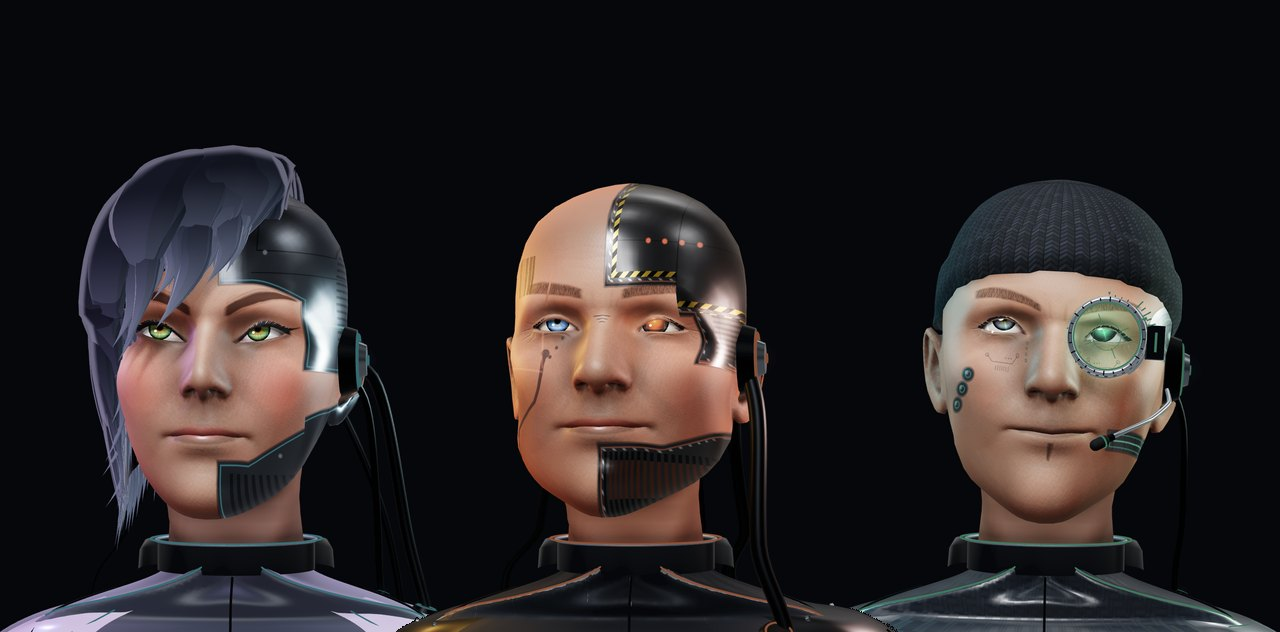
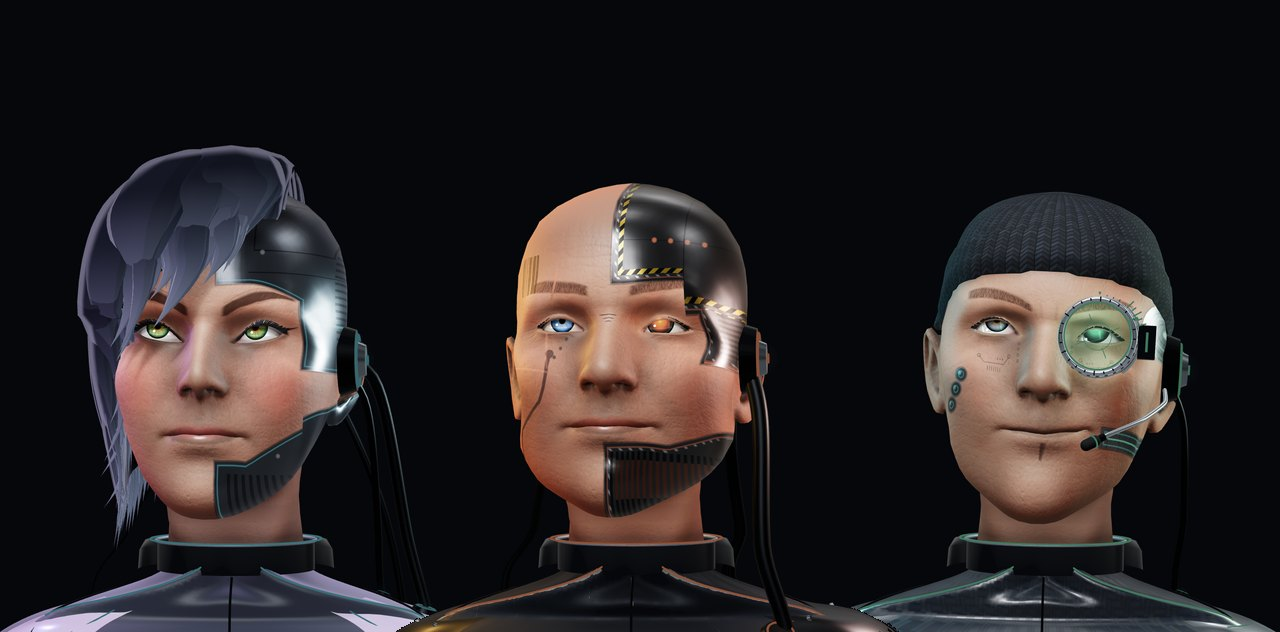
Noc 18.11: głowa Marka (niższe ciemię, węższe skronie) przenagrana; dziennik 3 wpisy (głowa Marka, infrastruktura w Terraform i Ansible, harmonogram bez Cronicle); platforma danych: stos i opis; krótsze tytuły EN/RU platforma-dzialu-it; panel bez zmian
Nocne-odswiezanie: tak
Kind: feat

diff --git a/tools/odswiez/PLAN.md b/tools/odswiez/PLAN.md
@@ -1,10 +1,13 @@
 # Plan prowadzenia strony (aktualizowany co noc)
 
-Ostatnia noc: 2026-11-17 (dziennik: 2 wpisy techniczne; kadry pilota, głów i panelu bez zmian; SEO: 2 tytuły)
+Ostatnia noc: 2026-11-18 (dziennik: 3 wpisy; przenagrana głowa Marka; panel bez zmian; SEO: 2 tytuły; stos platformy danych)
 
 ## Nieaktualne
 - Film panel.mp4 (12.11): zakładka „Modele” ma już podzakładki rdzenia (zużycie, przebiegi, wynik, limity i trasy),
   a twarze agentów są nowe. Przenagrać `rolik_panel.py` (panel uruchomić od nowa przed nagraniem).
+- Panel od 17.11: na serwerze Sally agent domowy to Buzz (z twarzą Marka do czasu własnej głowy), Mark zostaje
+  w innej roli. Kadry panel-agenci, panel-decyzje, agenci.mp4 pokazują jeszcze Marka. Przenagrać i opisać
+  Buzza w sekcji „Agenci”, gdy dostanie własną głowę (head.js); do tego czasu strona zostaje przy trzech agentach.
 - Konsola ISP (public/img/demo): zrzuty z 05.11 w niebieskim motywie „Kolor”. Przenagrać, gdy platforma ISP dostanie
   ciemny motyw zbliżony do panelu; inaczej zostają.
 - Pulpit (pulpit-gitcloud): film pulpit.mp4 nagrany ręcznie, przepisu w repo nie ma. Przenagrać dopiero z przepisem
@@ -22,14 +25,14 @@ Ostatnia noc: 2026-11-17 (dziennik: 2 wpisy techniczne; kadry pilota, głów i p
 - Szyna zdarzeń rdzenia: schemat „zdarzenie → zadanie” zamiast timerów (do strony rdzenia), rysowany od zera.
 
 ## Nie udało się / ograniczenia
-- Głowy 17.11: zmiany tylko w trybie muzyki i w napisach (wygląd w klipach ten sam), bez przenagrania.
 - Pilot 17.11: render.py daje kadry identyczne co do piksela; nowa strona „Dźwięk” (głośności) i wiersz trybów
   ze sprawą w toku nie występują w scenariuszu. Do dopisania razem z oknem rozmowy (dane przykładowe, PL).
-- Panel 17.11: zmiany w sekcjach prywatnych i w nazwach serwerów (przycisk mostu w kadrach ukryty), bez przenagrania.
+- Panel 18.11: Buzz zamiast Marka i kafel zadań kontenera zamiast Cronicle; bez przenagrania (patrz „Nieaktualne”).
+- Głowy 18.11: Tony i Sally po ponownym renderze różnią się tylko odcieniem skóry, zostały stare pliki; trójka
+  glowy.mp4 i Mark nowe.
 
-## SEO (Marek, obchód 15.11)
+## SEO (Marek, obchód 15.11; zrobione: EN/RU platforma-dzialu-it 18.11)
 - Title > 70 znaków: główna PL/EN/RU (72/71/74) zostaje, to pozycjonowanie właściciela.
-- Title > 70: EN i RU platforma-dzialu-it (71/71); skrócić o kilka znaków.
 - Description /cv/ PL i EN (197/202): składa się z roli i pierwszego akapitu bio; potrzebne osobne krótkie pole opisu.
 
 ## Pomysły
